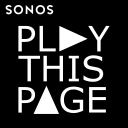
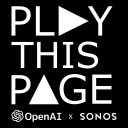
feat: find and play call, with some openai parsing

diff --git a/popup.js b/popup.js
@@ -13,6 +13,8 @@
 // limitations under the License.
 
 
+const DEBUG = false
+
 const $loginButton = document.getElementById( "loginButton" );
 const $logoutButton = document.getElementById( "logoutButton" );
 
@@ -23,6 +25,10 @@ const $parseResults = document.getElementById( "parseResults" );
 const $householdResults = document.getElementById( "householdResults" );
 const $householdFieldset = document.getElementById( "householdFieldset" );
 const $playWrapper = document.getElementById( "playWrapper" );
+const $playButton = document.getElementById( "playButton" );
+const $promptWrapper = document.getElementById( "promptWrapper" );
+const $promptSubmit = document.getElementById( "promptSubmit" );
+const $prompt = document.getElementById( "prompt" );
 const $debug = document.getElementById( "debug" );
 
 let myAccessToken;
@@ -37,27 +43,57 @@ const doActions = ( email, token ) => {
   document.getElementById( "loggedInAs" ).innerText = email
 
   // Do stuff
-  parsePage();
+  showPrompt();
+  doOpenAICall();
   buildHousehold();
 }
 
-const parsePage = () => {
+const showPrompt = () => {
+  $promptWrapper.classList.remove( "hide" )
+}
+
+const openAILoader = () => {
+  if ($parseResults.innerText.startsWith('OpenAI')) {
+    $parseResults.innerText += '.'
+    setTimeout(() => { openAILoader() }, 333)
+  }
+}
+
+const doOpenAICall = (promptOverride) => {
+  $parseResults.innerText = `OpenAI is attempting to create your playlist...`
+  openAILoader()
   $parseResults.classList.remove( "hide" )
+  $promptSubmit.disabled = true
+  $playButton.disabled = true
   chrome.tabs.query( { active: true, lastFocusedWindow: true }, tabs => {
-    let url = tabs[ 0 ].url;
+    let prompt = promptOverride ? promptOverride : tabs && tabs[0] ? tabs[ 0 ].url : "songs that make you happy";
+    $prompt.innerText = prompt
     chrome.runtime.sendMessage( {
-      prompt: url,
+      prompt: prompt,
       type: "fetchPlaylist",
     }, ( res ) => {
       if ( !res || res === "ERROR" ) {
-        $parseResults.classList.add( "hide" );
-        $debug.innerText = 'Could not create a playlist!'
+        $parseResults.innerText = `Sorry, could not create a playlist. Try again with a different prompt.`
       } else if ( res ) {
-        $parseResults.innerHTML = res
+        const list = document.createElement('ol')
+        res.forEach(r => {
+          const li = document.createElement('li')
+          li.innerText = `"${r.track}" by ${r.artist}`
+          list.appendChild(li)
+        })
+        $parseResults.innerHTML = '';
+        $parseResults.append(list)
+        chrome.storage.local.set( {
+          'playlist': res
+        }, () => {
+          $playButton.innerHTML = "Play"
+          $playButton.disabled = false
+        } )
       }
+      $promptSubmit.disabled = false
     } )
   } )
-  //
+  if (DEBUG) $debug.innerText = `parsePage ${promptOverride} ${Date.now()}`
 }
 
 const fetchHousehold = () => {
@@ -141,6 +177,12 @@ const initialize = () => {
 
 initialize()
 
+const handleLoginFailure = (msg) => {
+  $loginForm.classList.remove( "hide" );
+  $loggingIn.classList.add( "hide" );
+  $debug.innerText = `Log in failed: ${msg}`
+}
+
 $loginButton.addEventListener( "click", () => {
   $loginForm.classList.add( "hide" );
   $loggingIn.classList.remove( "hide" );
@@ -152,17 +194,20 @@ $loginButton.addEventListener( "click", () => {
     password,
     type: "oktaCall",
   }, ( res ) => {
-    if ( !res || res === "ERROR" ) {
-      $loginForm.classList.remove( "hide" );
-      $loggingIn.classList.add( "hide" );
-      $debug.innerText = 'Log in failed. Try again later.'
-    } else if ( res ) {
+    if ( !res || res === "ERROR") {
+      handleLoginFailure('Okta failed')
+    } else {
       const accessToken = res.access_token
-      chrome.storage.local.set( {
-        'email': email,
-        'accessToken': accessToken
-      } )
-      doActions( email, accessToken )
+      if (accessToken) {
+        chrome.storage.local.set( {
+          'email': email,
+          'accessToken': accessToken
+        } )
+        doActions( email, accessToken )
+      } else {
+        handleLoginFailure('No access token')
+        $debug.innerText = `Log in failed: ${JSON.stringify(res)}`
+      }
     }
   } )
 } );
@@ -178,4 +223,48 @@ $logoutButton.addEventListener( "click", () => {
   document.getElementById( "inputEmail" ).value = ''
   document.getElementById( "inputPassword" ).value = ''
   initialize()
+} );
+
+$playButton.addEventListener( "click", () => {
+  $playButton.disabled = true
+  let groupId;
+  document.getElementsByName("groupToPlayOn").forEach(e => {
+    if (e.checked) groupId = e.value
+  })
+  if (groupId) {
+    if (DEBUG) $debug.innerText = `About to play to ${groupId}`
+    chrome.storage.local.get( [ 'playlist' ], ( result ) => {
+      if ( result ) {
+        if ( result.playlist && myAccessToken ) {
+          chrome.runtime.sendMessage( {
+            groupId,
+            token: myAccessToken,
+            playlist: result.playlist,
+            type: "findAndPlay",
+          }, ( res ) => {
+            if ( !res || res === "ERROR" || res.errorCode) {
+              $debug.innerText = `Sorry! Something went wrong. Try again later.`
+              $playButton.disabled = false
+            } else {
+              $playButton.innerHTML = "ENJOY!"
+            }
+          } )
+        } else {
+          $debug.innerText = `Sorry! Something went wrong. Try again later.`      
+          $playButton.disabled = false
+        }
+      }
+    } )
+  } else {
+    $debug.innerText = `Need to select a group to play to!`
+    $playButton.disabled = false
+  }
+} );
+
+$promptSubmit.addEventListener( "click", () => {
+  const prompt = $prompt.value
+  console.log('Prompt submit', prompt)
+  if (prompt && prompt.length) {
+    doOpenAICall(prompt)
+  }
 } );

diff --git a/background.js b/background.js
@@ -54,9 +54,33 @@ chrome.runtime.onMessage.addListener( function ( message, sender, sendResponse )
             sendResponse( "ERROR" );
           } )
         break
+      case 'findAndPlay':
+        const fnpbody = {
+          "tracksMetadata": message.playlist,
+          "playOnCompletion": true
+        }
+        console.log('FNP', message.groupId, fnpbody)
+        fetch( `https://api.ws.sonos.com/control/api/v1/groups/${message.groupId}/find/tracksAndLoad`, {
+          method: "POST",
+          Origin: 'test',
+          headers: {
+            'Authorization': `Bearer ${ message.token }`,
+            'Content-Type': 'application/json'
+          },
+          body: JSON.stringify(fnpbody)
+        } )
+          .then( ( res ) => res.json() ).then( ( res ) => {
+            console.log( res, 'res' )
+            sendResponse( res );
+          } )
+          .catch( ( e ) => {
+            console.log( res, 'ERROR' )
+            sendResponse( "ERROR" );
+          } )
+        break
       case 'fetchPlaylist':
 
-        const prompt = `Create 5 song playlist in a JSON format with {artist: artistName, track: trackName} based on ${ message.prompt }`
+        const prompt = `Create 5 song playlist in a JSON format with {"artist": artistName, "track": trackName} based on ${ message.prompt }`
         const body = {
           model: 'text-davinci-003',
           prompt: prompt,
@@ -68,20 +92,35 @@ chrome.runtime.onMessage.addListener( function ( message, sender, sendResponse )
         fetch( `https://api.openai.com/v1/completions`, {
           method: "POST",
           headers: {
-            'Authorization': `Bearer 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`,
+            'Authorization': `Bearer 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`,
             'Content-Type': 'application/json'
           },
           body: JSON.stringify( body )
         } )
           .then( ( res ) => res.json() ).then( ( data ) => {
-            const playlist = data.choices[ 0 ].text
-            console.log( playlist, 'playlist' )
-            const arrayStart = playlist.indexOf( '[' )
-            const arrayEnd = playlist.indexOf( ']' ) + 1
-            const songArr = playlist.slice( arrayStart, arrayEnd )
-            console.log( Array.isArray( songArr ), 'songArr' )
+            if (data && data.choices) {
+              const playlist = data.choices[ 0 ].text
+              console.log( playlist, 'playlist' )
+              const arrayStart = playlist.indexOf( '[' )
+              const arrayEnd = playlist.indexOf( ']' )
+              let songArr = playlist.slice( arrayStart, arrayEnd ? arrayEnd+1 : playlist.length )
 
-            sendResponse( songArr )
+              // These are to handle inconsistencies with the return object
+              if (!songArr.endsWith(']')) songArr = `${songArr}]`
+              songArr = songArr.replace(/\s/g, ' ')
+              songArr = songArr.replace(/}\s*,\s*]/g, '}]')
+              console.log( Array.isArray( songArr ), songArr )
+
+              const playlistObj = JSON.parse(`{"playlist":${songArr}}`)
+              if (playlistObj && playlistObj.playlist) {
+                console.log('Parsed playlist', playlistObj.playlist)
+                sendResponse( playlistObj.playlist )
+              } else {
+                sendResponse( "ERROR" )
+              }
+            } else {
+              sendResponse( "ERROR" )
+            }
           } )
           .catch( ( e ) => {
             console.log( e, 'ERRORe' )

diff --git a/popup.css b/popup.css
@@ -16,35 +16,35 @@ limitations under the License.
 
 body {
   background-color: #CCC;
-  width: 27rem;
+  width: 32rem;
   height: auto;
   display: flex;
   flex-direction: column;
-  padding: 16px;
+  padding: 10px 16px;
 }
 
 #headLogo {
   display: flex;
-  margin: 16px auto;
+  margin: 10px auto;
 }
 
 .column {
   display: flex;
   flex-direction: column;
-  margin: 16px auto;
+  margin: 10px auto;
 }
 
 .column > div {
   display: flex;
   flex-direction: column;
-  margin: 12px 0px;
+  margin: 8px 0px;
 }
 
 .row {
   display: flex;
   flex-direction: row;
-  margin: 16px 0;
-  width: 100%;
+  margin: 8px 16px;
+  width: 30rem;
   justify-content: space-between;
 }
 
@@ -54,10 +54,33 @@ body {
 
 #householdFieldset {
   display: grid;
-  grid-template-columns: repeat(2, 1fr);
-  width: 23rem;
+  grid-template-columns: repeat(3, 1fr);
+  width: 28rem;
 }
 
 #householdFieldset > div {
-  margin: 8px 0;
+  margin: 4px 0;
+}
+
+#promptWrapper {
+  width: 30rem;
+}
+
+#prompt {
+  height: 2rem;
+}
+
+#parseResults {
+  margin: 10px 16px 24px 16px;
+}
+
+ol {
+  font-size: 0.95rem;
+  margin: 0;
+}
+
+#debug {
+  font-size: 0.85rem;
+  font-weight: bold;
+  color: red;
 }

diff --git a/popup.html b/popup.html
@@ -9,7 +9,7 @@
   <body>
     
     <div id="headLogo">
-      <img src="./images/sonos_logo.png" width="80px">
+      <img src="./images/collab-logo.png" width="200px">
     </div>
 
     <div id="loginForm" class="column">
@@ -41,7 +41,14 @@
       </div>
     </div>
 
-    <div id="parseResults" class="column hide">
+    <div id="promptWrapper" class="column hide">
+      <div>
+        <textarea id="prompt"></textarea>
+        <button id="promptSubmit">Submit prompt</button>
+      </div>
+    </div>
+
+    <div id="parseResults" class="row hide">
       Creating playlist... hang tight...
     </div>
 
